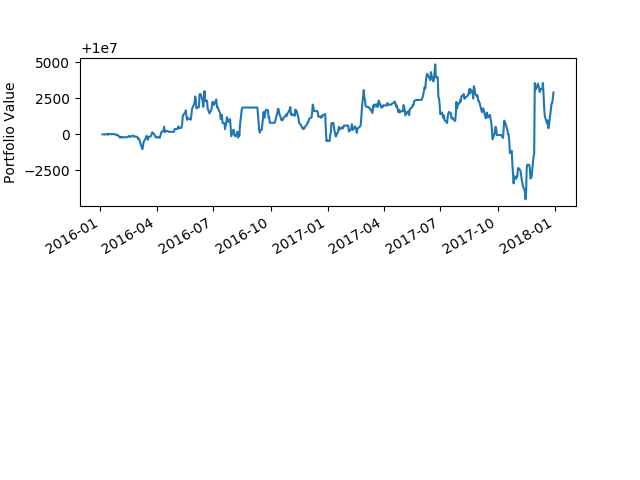
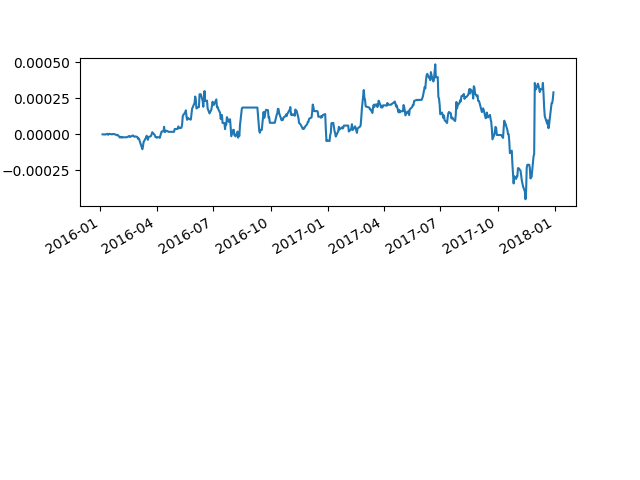
perf

Changed region(s): [[0.0, 0.1562, 0.125, 0.375], [0.0312, 0.125, 0.125, 0.1562], [0.125, 0.0938, 0.1875, 0.125]]

diff --git a/strategies/my_first_algorithm/visualize.py b/strategies/my_first_algorithm/visualize.py
@@ -8,8 +8,8 @@ perf.head()
 alg_returns = perf.algorithm_period_return
 
 ax1 = plt.subplot(211)
-perf.portfolio_value.plot(ax=ax1)
-ax1.set_ylabel('Portfolio Value')
+alg_returns.plot(ax=ax1)
+ax1.set_ylabel('Returns')
 plt.savefig('performance.png')
 
 
